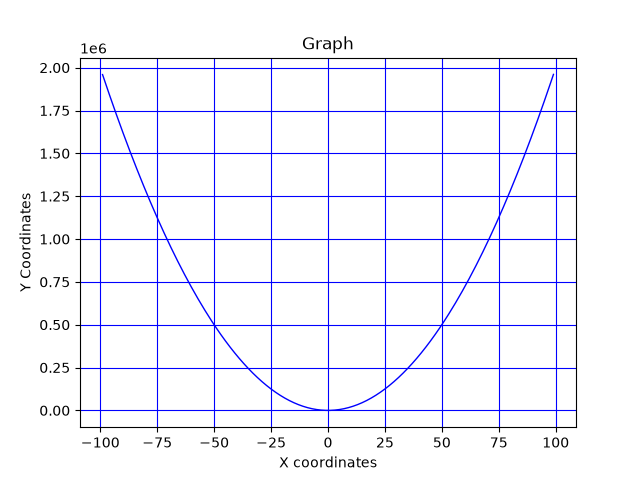
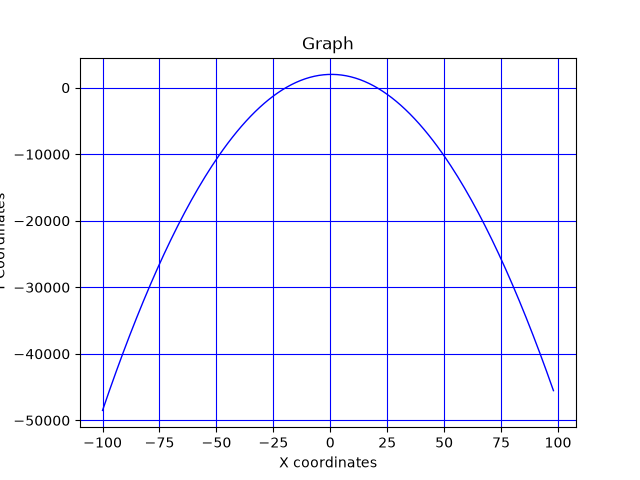
fixed up some of the API default values so that the user does not need to input all the default values, making it more flexible in terms of inputs.

diff --git a/Radian_Measure_API.py b/Radian_Measure_API.py
@@ -1,12 +1,16 @@
 import math
 
 class Radian_Measure_Function:
-    def __init__(self):
-        self.theta = None
-        self.PI = math.pi
+    PI = math.pi
+
+    def __init__(self,theta=None):
+        self.theta = theta
+
+    def set_theta(self,new_theta):
+        self.theta=new_theta
 
     def rad_to_deg(self):
-        return 180/self.PI * self.theta
+        return 180/Radian_Measure_Function.PI * self.theta
 
     def deg_to_rad(self,deg_theta):
         return math.PI/(180/deg_theta)

diff --git a/Rational_Functions_API.py b/Rational_Functions_API.py
@@ -2,9 +2,9 @@ from Factoring_API import Factoring_Function
 
 class Rational_Functions_Func:
 
-    def __init__(self):
-        self.numerator_func = ""
-        self.denomenator_func = ""
+    def __init__(self,numerator_func='',denomenator_func=''):
+        self.numerator_func = numerator_func
+        self.denomenator_func = denomenator_func
 
     def set_numer_func(self,new_func):
         self.numerator_func = new_func

diff --git a/Factoring_API.py b/Factoring_API.py
@@ -3,7 +3,10 @@ from Polynomial_API import Polynomial_Function
 
 class Factoring_Function:
 
-    def __init__(self,equation):
+    def __init__(self,equation=''):
+        self.equation = equation
+
+    def set_equation(self,equation):
         self.equation = equation
 
     def split_values(self):

diff --git a/Quadratic_API.py b/Quadratic_API.py
@@ -138,6 +138,6 @@ f(x) = {self.a}(x² + {((self.b/self.a)/2)**2}) + {-(self.a*(((self.b/self.a)/2)
         
     
 if __name__ == "__main__":
-    obje = Quadratic_Function(200,5,6)
+    obje = Quadratic_Function(-5,5,2000)
     obje.display_root_form_with_steps()
     obje.graph_quadratic_function()

diff --git a/Linear_API.py b/Linear_API.py
@@ -2,7 +2,7 @@ from Graphing_API import Graphing_Function
 
 class Linear_Function:
     
-    def __init__(self,m:float,x:float,b:float):
+    def __init__(self,m:float=0,x:float=0,b:float=0):
         self.m = m
         self.x = x
         self.b = b

diff --git a/Power_Rule_API.py b/Power_Rule_API.py
@@ -1,7 +1,10 @@
 
 class Power_Rule:
 
-  def __init__(self,equation:str):
+  def __init__(self,equation:str=''):
+    self.equation = equation
+
+  def set_new_equation(self,equation:str):
     self.equation = equation
 
   def split_equation(self):

diff --git a/Trigonometry_API.py b/Trigonometry_API.py
@@ -2,7 +2,7 @@
 import math
 class Trigonometric_Function:
     
-    def __init__(self,theta:float|int):
+    def __init__(self,theta:float|int=1):
         self.theta = theta
 
     def set_theta(self,new_val:float|int):
